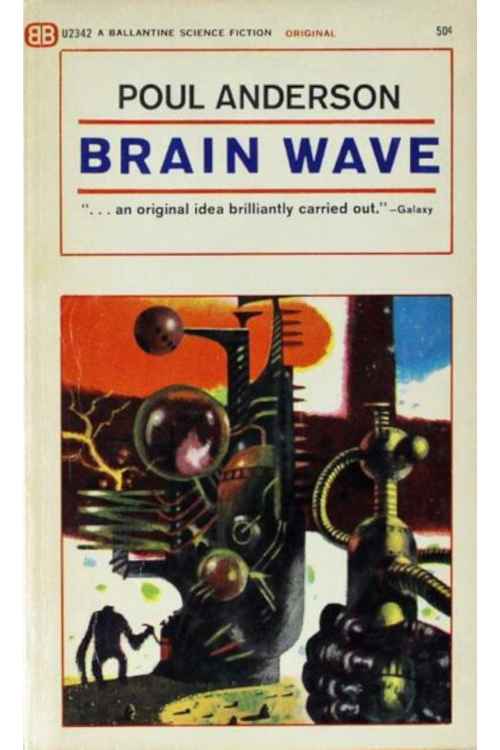
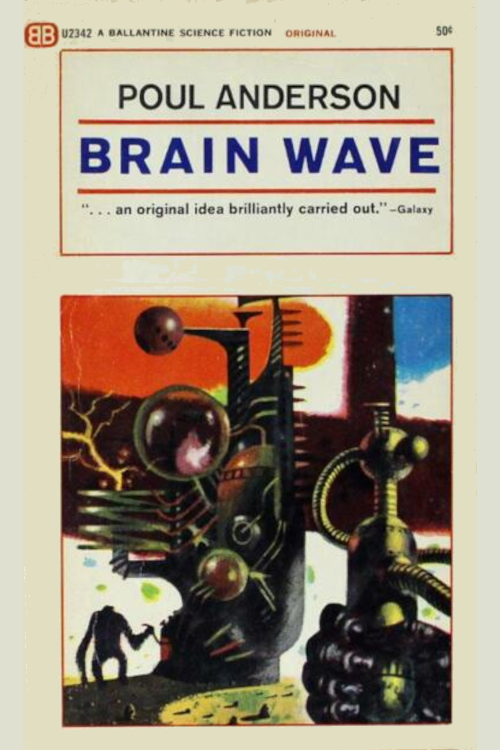
snap

Changed region(s): [[0.93, 0.0, 1.0, 1.0], [0.0, 0.0, 0.18, 1.0]]

diff --git a/src/pages/reviews/[slug]/__snapshots__/brain-wave-by-poul-anderson.html b/src/pages/reviews/[slug]/__snapshots__/brain-wave-by-poul-anderson.html
@@ -247,14 +247,16 @@
                 ></div>
                 <div class="absolute size-full backdrop-blur"></div>
               </div>
-              <div class="relative -top-4 z-10 h-[372px]">
+              <div
+                class="relative -top-4 z-10 h-[372px] shadow-[0_5px_20px_rgba(49,46,42,0.22)]"
+              >
                 <img
                   src="/_image/?href=%2Fcontent%2Fassets%2Fcovers%2Fbrain-wave-by-poul-anderson.png%3ForigWidth%3D500%26origHeight%3D750%26origFormat%3Dpng&amp;w=248&amp;h=372&amp;q=80&amp;f=avif"
                   srcset="
                     /_image/?href=%2Fcontent%2Fassets%2Fcovers%2Fbrain-wave-by-poul-anderson.png%3ForigWidth%3D500%26origHeight%3D750%26origFormat%3Dpng&amp;w=248&amp;h=372&amp;q=80&amp;f=avif 1x,
                     /_image/?href=%2Fcontent%2Fassets%2Fcovers%2Fbrain-wave-by-poul-anderson.png%3ForigWidth%3D500%26origHeight%3D750%26origFormat%3Dpng&amp;w=496&amp;h=744&amp;q=80&amp;f=avif 2x
                   "
-                  class="safari-border-radius-fix"
+                  class="safari-border-radius-fix shadow-[0_5px_20px_rgba(49,46,42,0.22)]"
                   height="372"
                   width="248"
                   alt=""
